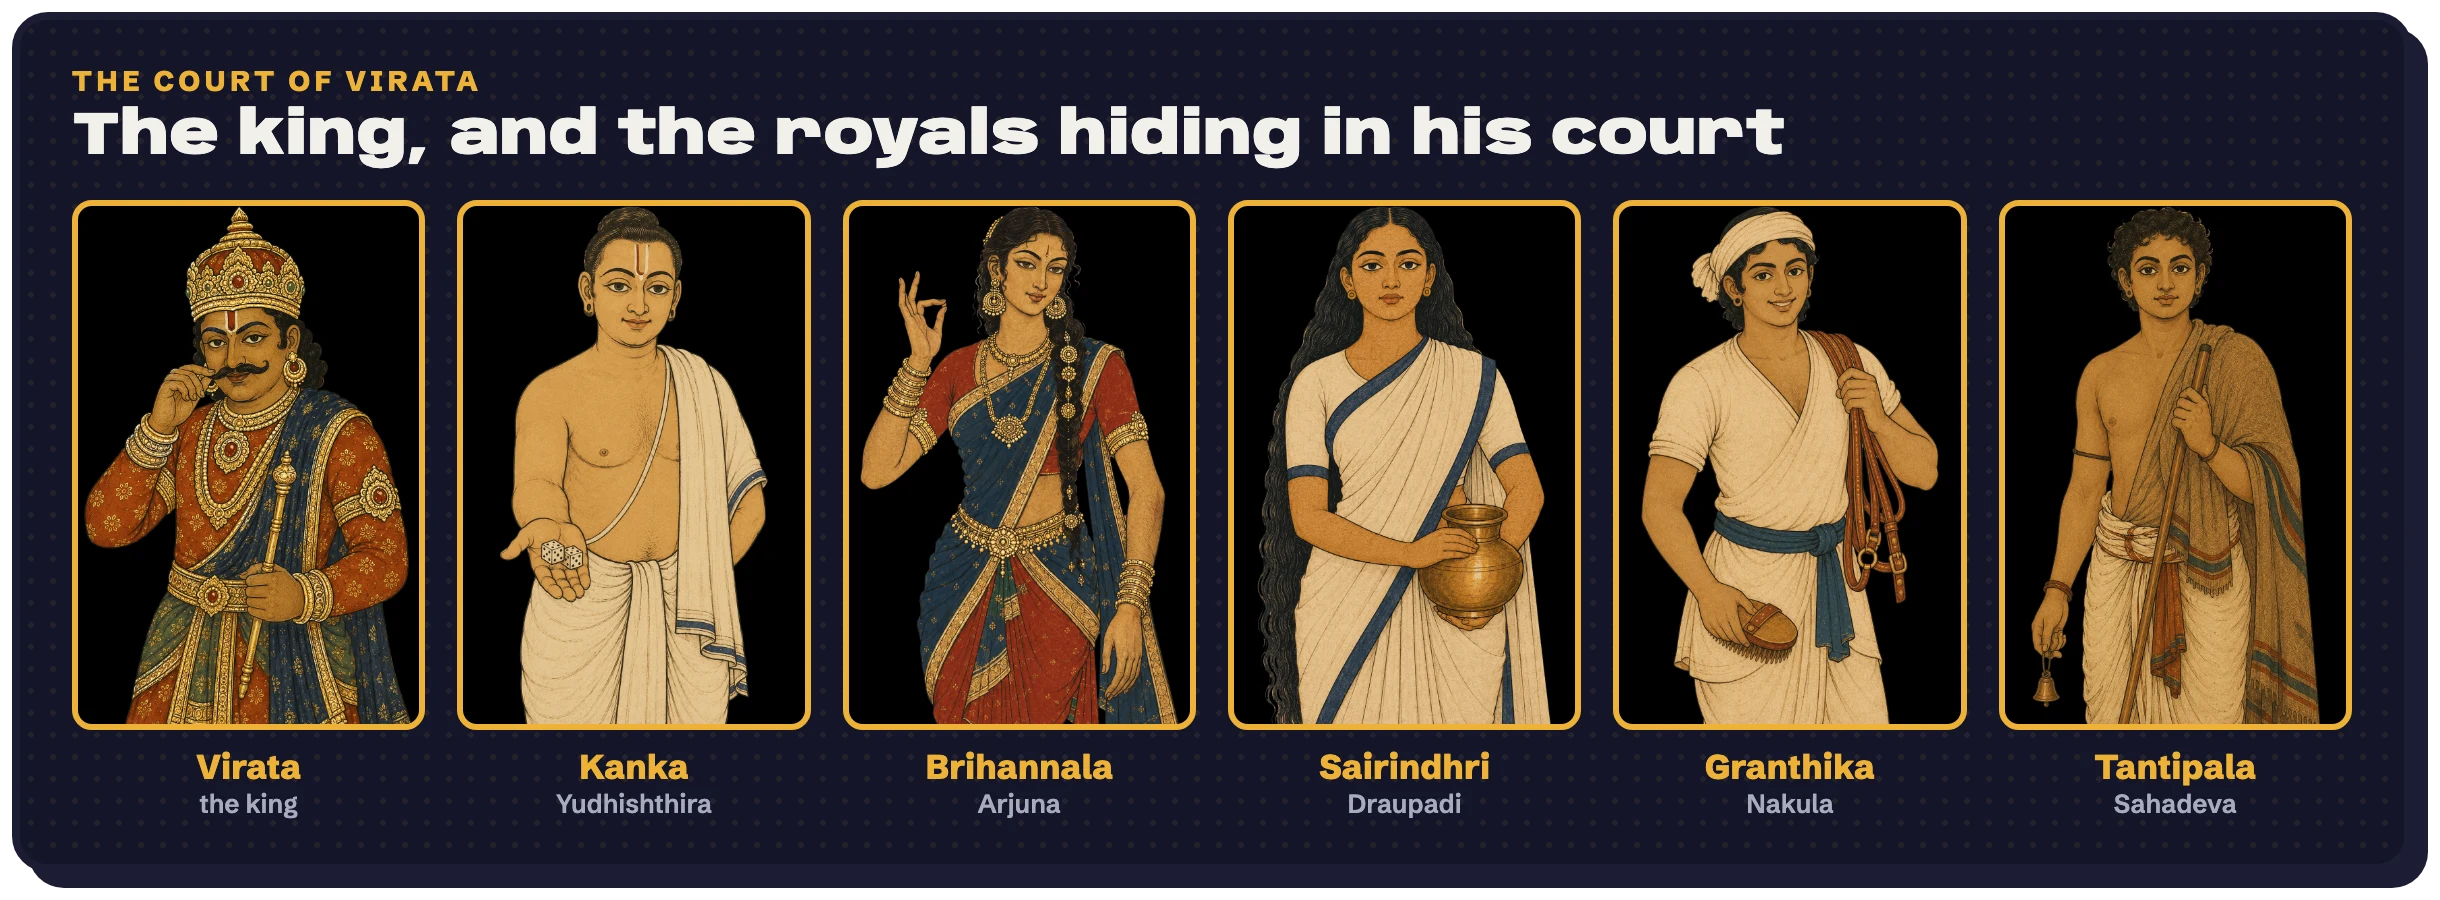
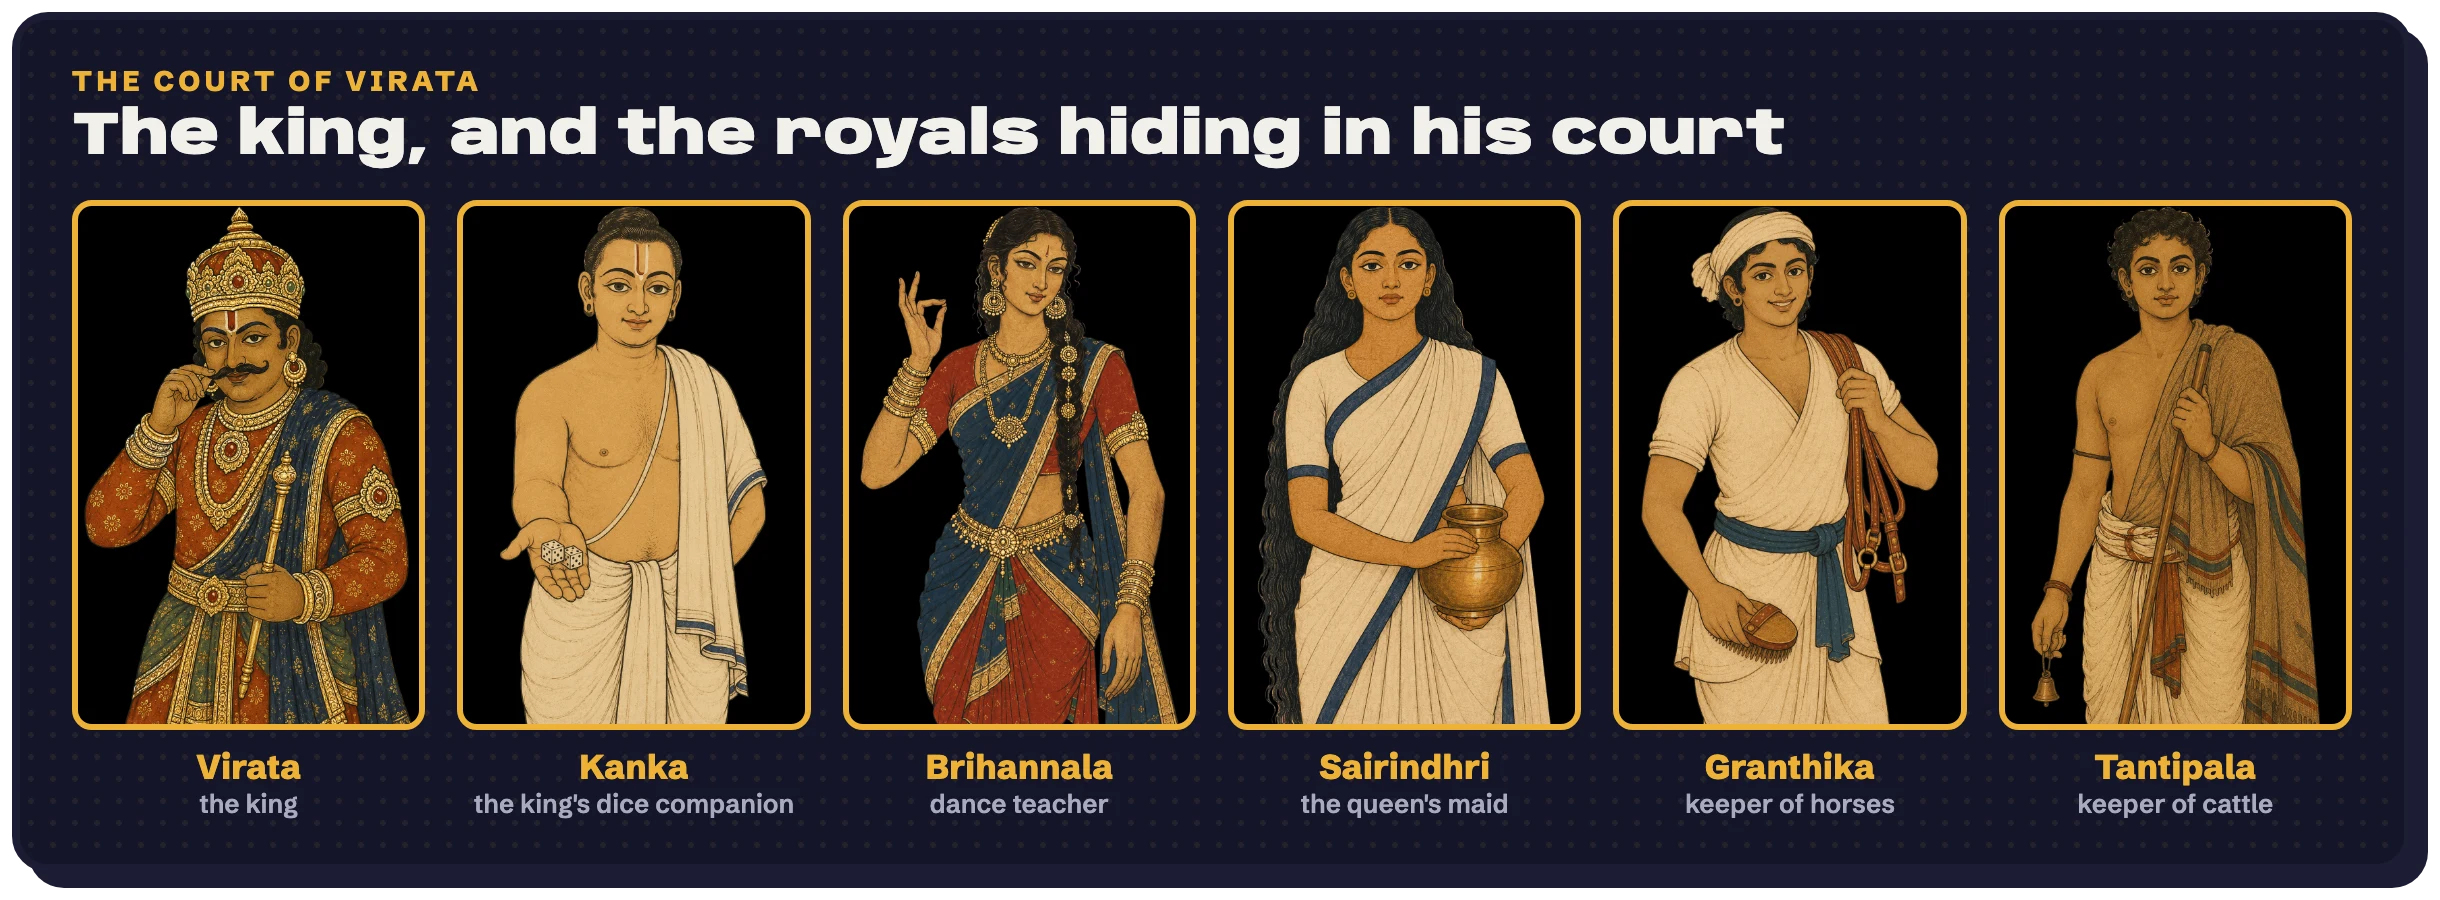
Show court roles instead of the Pandavas' real names

diff --git a/README.md b/README.md
@@ -76,7 +76,7 @@ It's a roguelite deckbuilder with three decks woven into one year, and a story t
   </tr>
 </table>
 
-<img src="assets/game-court.webp" width="100%" alt="The court of Virata: the king, and the royals hiding in his court. Character portraits of Virata the king; Kanka, who is Yudhishthira, holding dice; Brihannala, who is Arjuna, as a dance teacher; Sairindhri, who is Draupadi, holding a water pot; Granthika, who is Nakula, with a horse brush and reins; and Tantipala, who is Sahadeva, a cowherd with a staff and bell." />
+<img src="assets/game-court.webp" width="100%" alt="The court of Virata: the king, and the royals hiding in his court. Character portraits of Virata, the king; Kanka, the king's dice companion, holding dice; Brihannala, the dance teacher; Sairindhri, the queen's maid, holding a water pot; Granthika, keeper of horses, with a brush and reins; and Tantipala, keeper of cattle, with a staff and bell." />
 
 <img src="assets/game-gods.webp" width="100%" alt="By night, nine gods to call on: portraits of Agni, Durga, Hanuman, Indra, Prithvi, Surya, Varuna, Vayu and Yama, each with a golden halo on black." />
 
